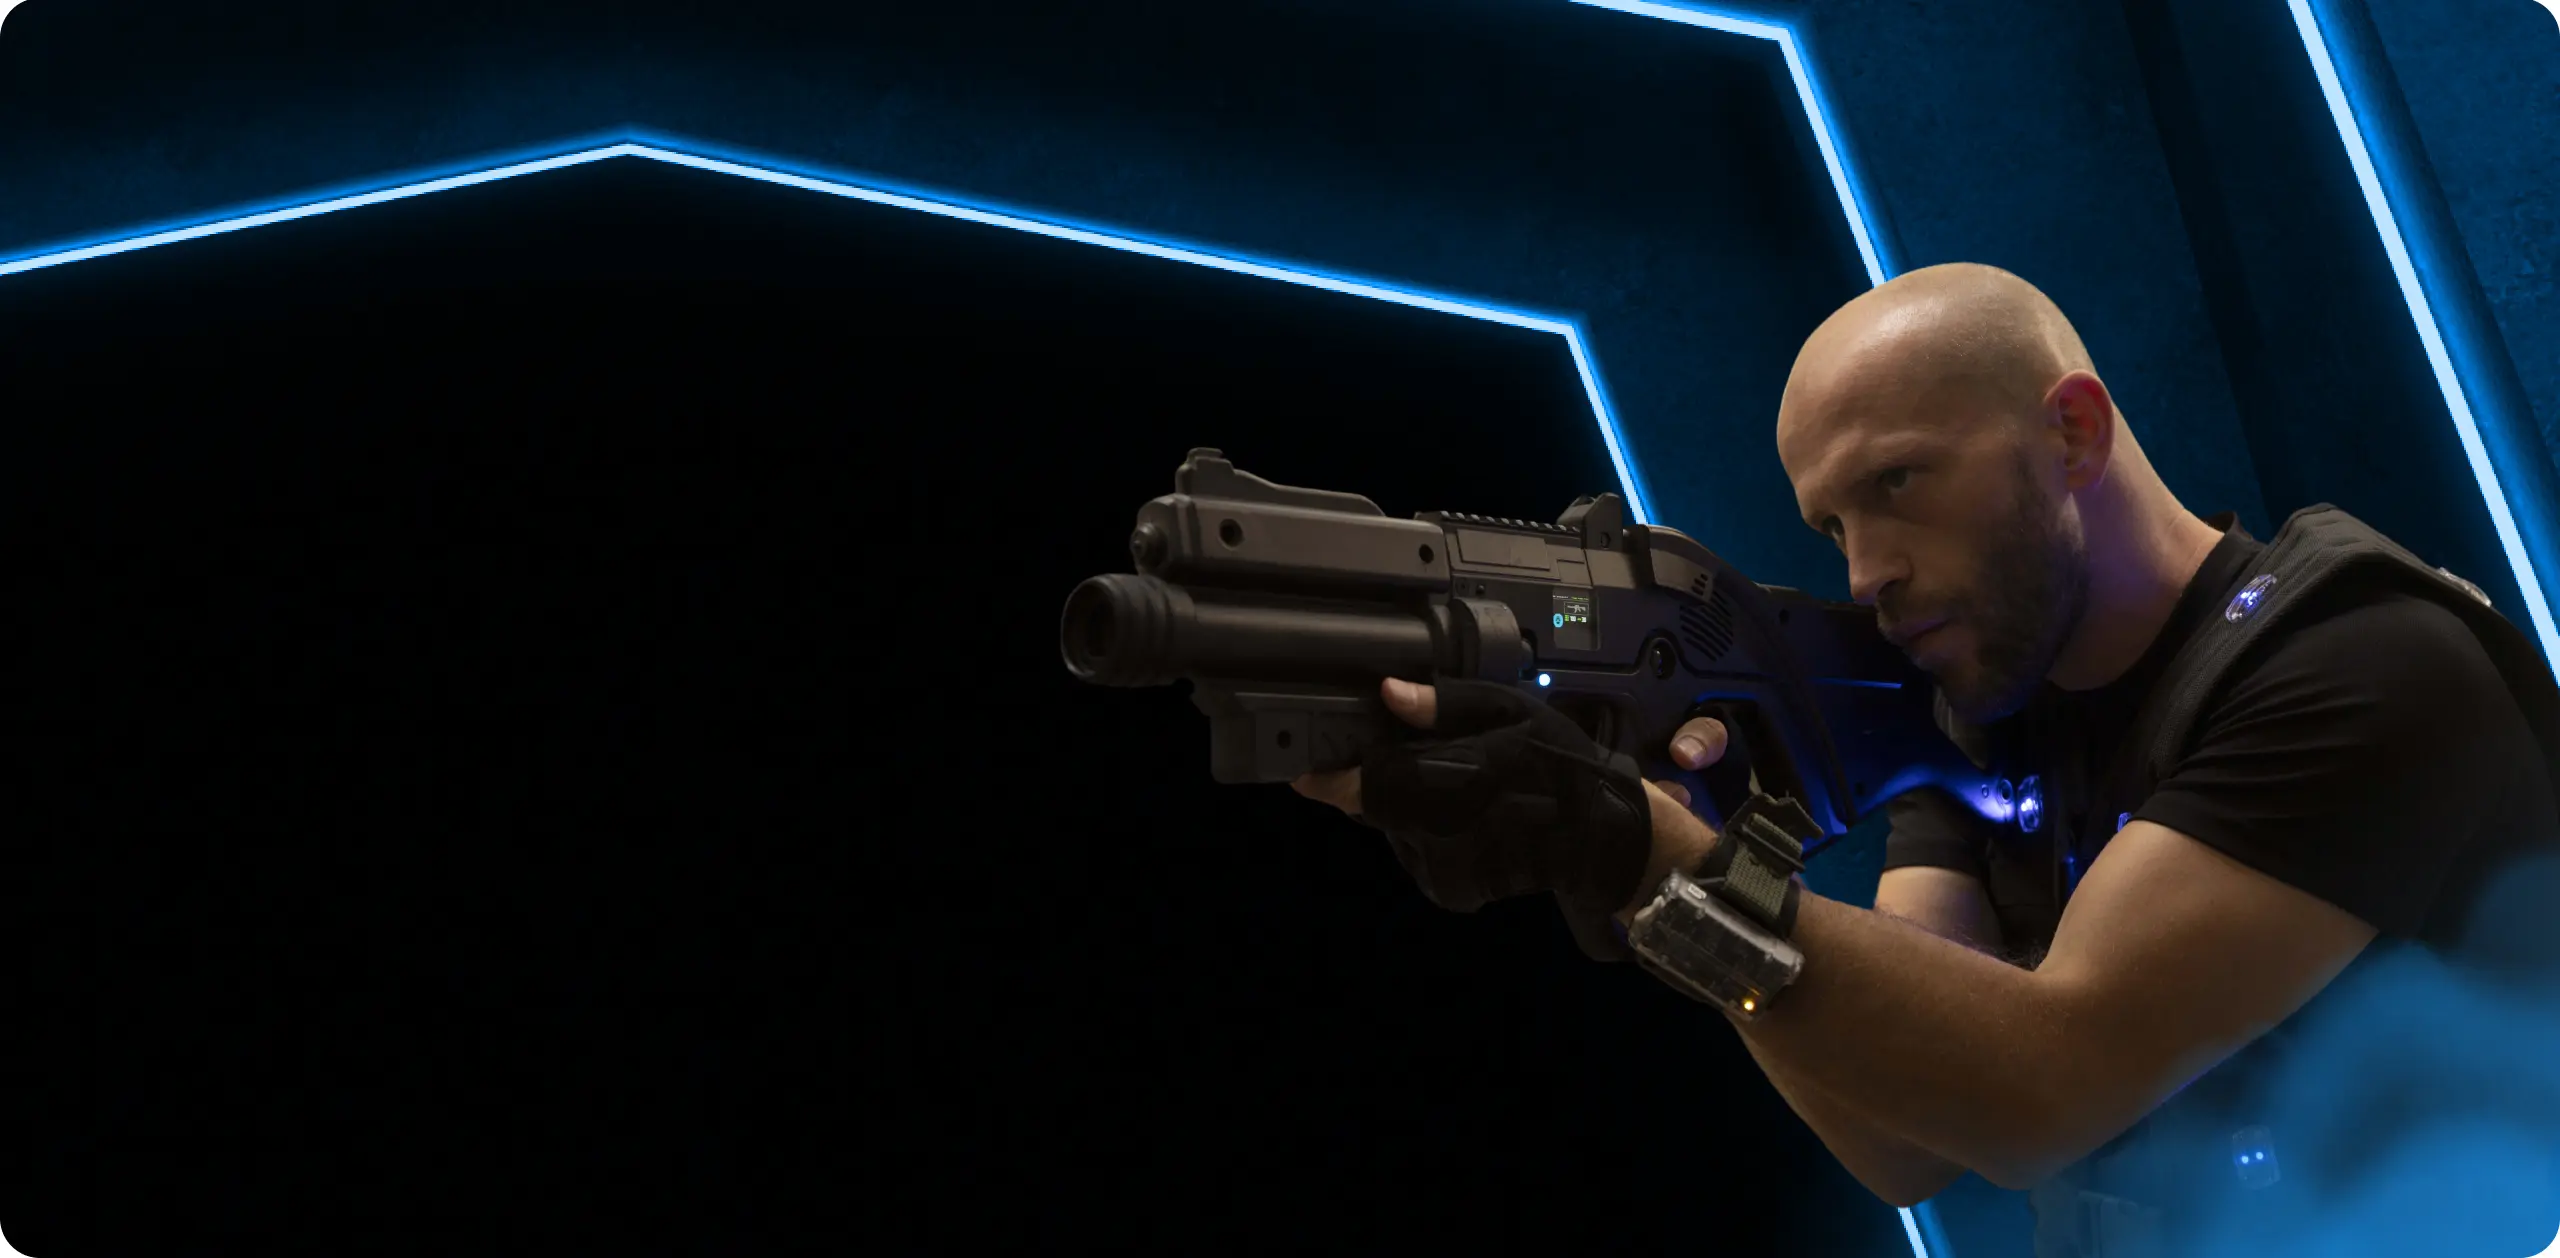
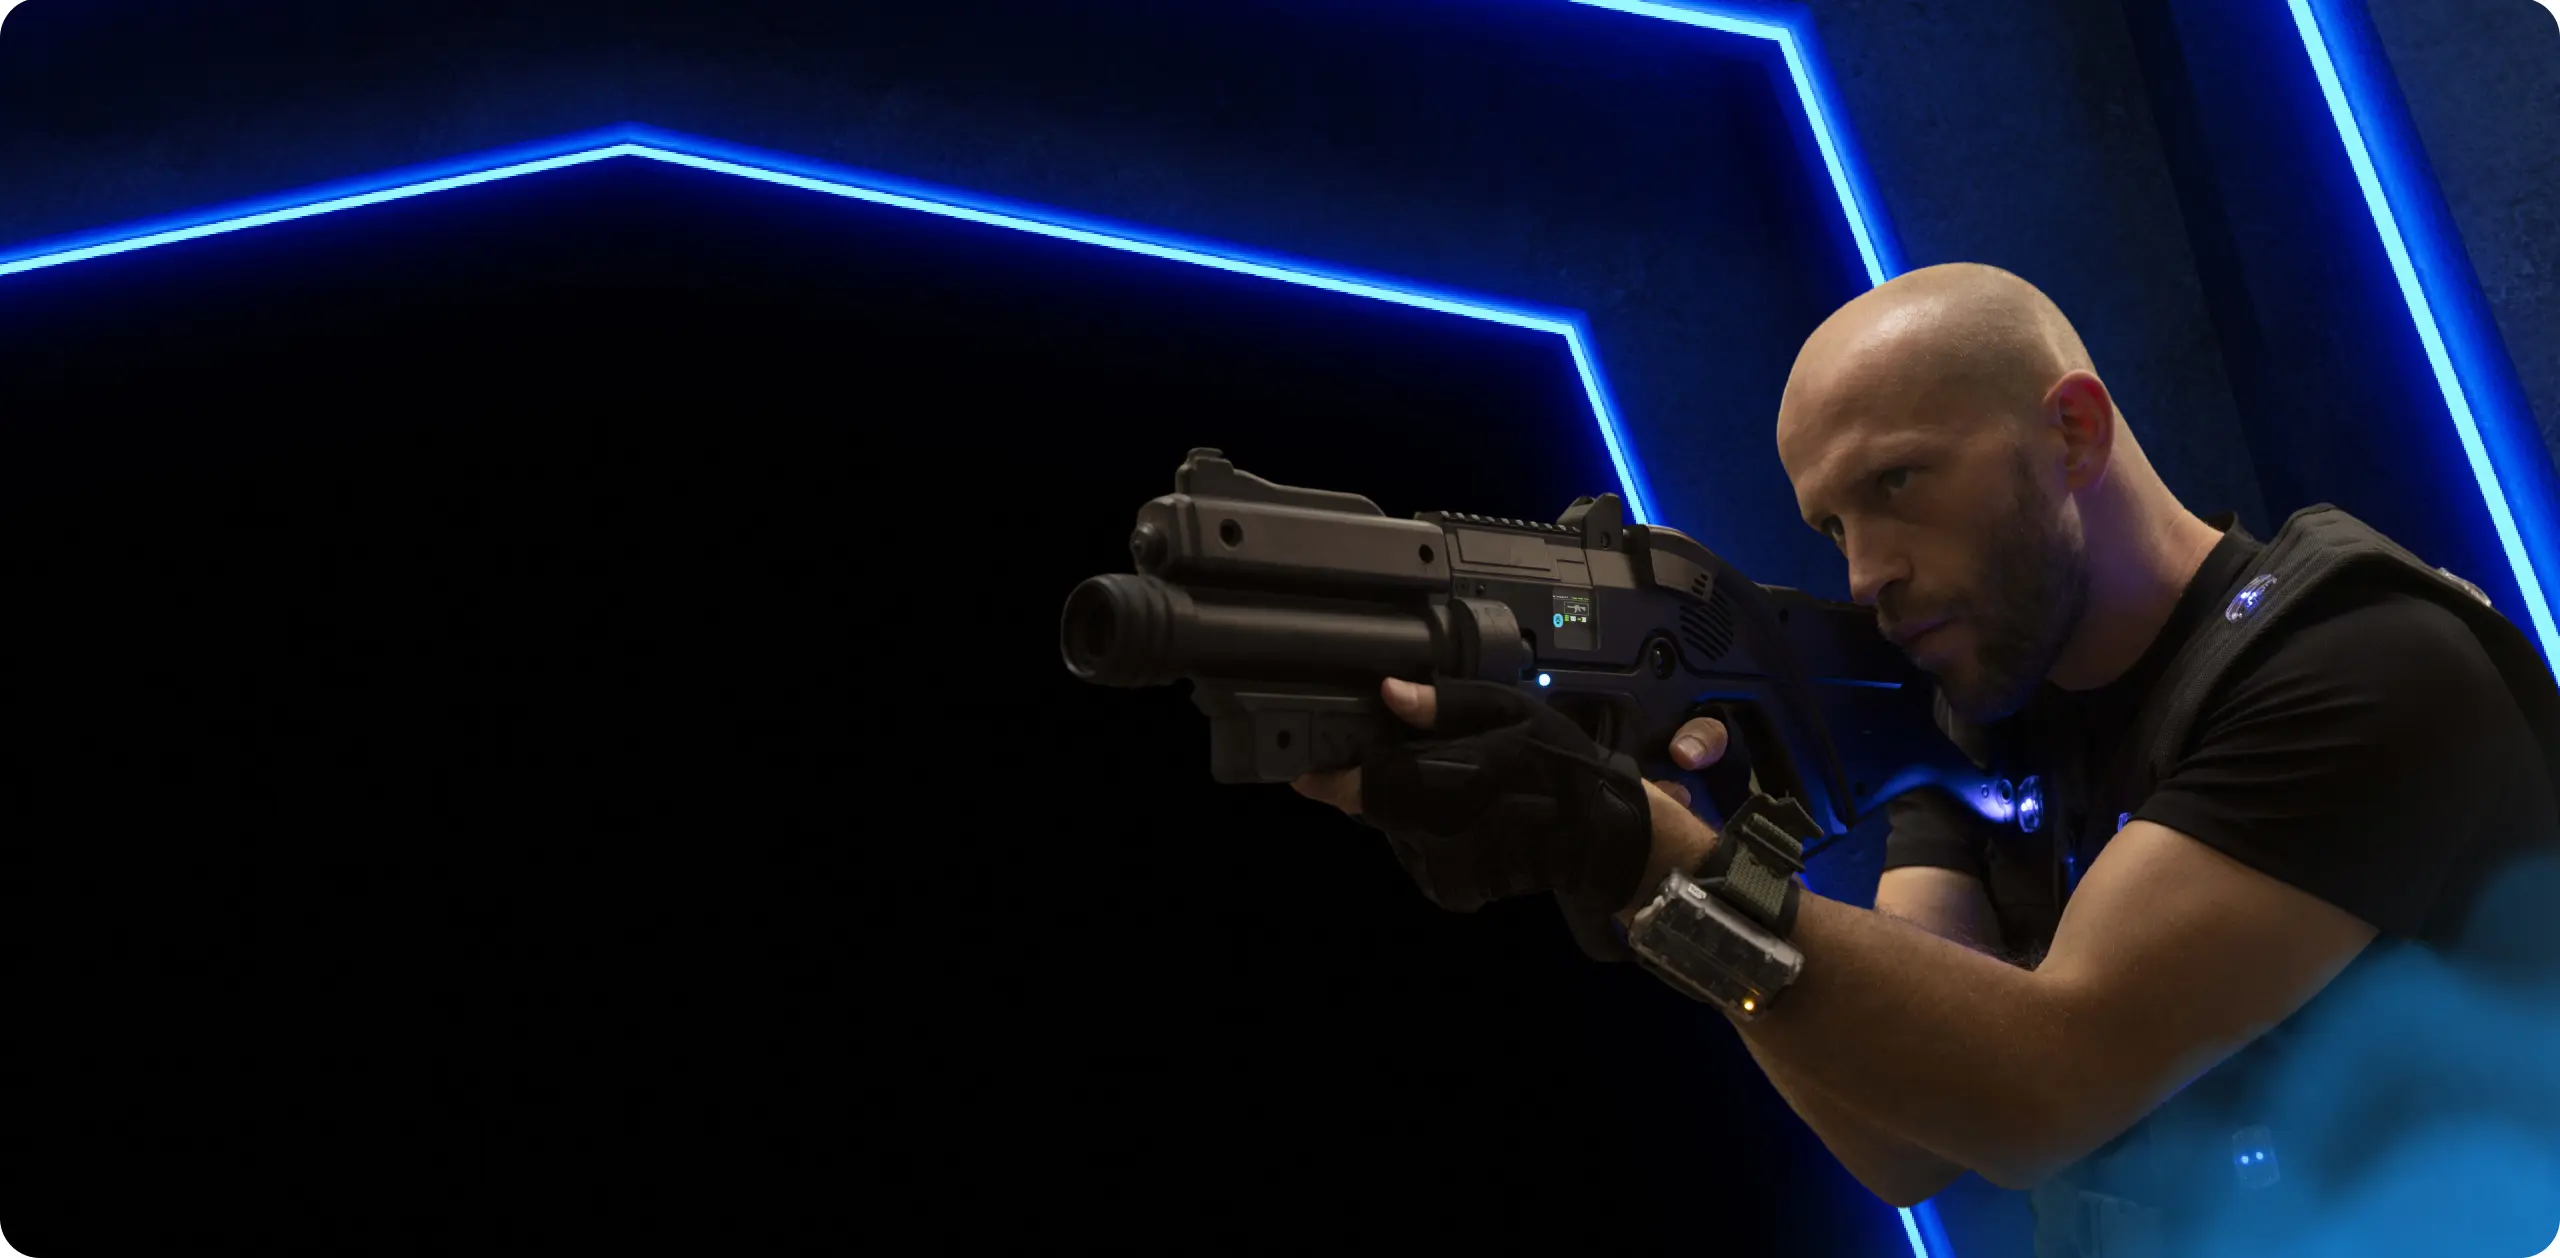
change quality images

diff --git a/src/components/MainAchievementsSection/MainAchievementsSection.tsx b/src/components/MainAchievementsSection/MainAchievementsSection.tsx
@@ -55,7 +55,7 @@ const MainAchievementsSection = () => {
                   src={imgOne}
                   alt="Main achievements img 1"
                   fill
-                  sizes="(max-width: 768px) 50vw, (max-width: 1200px) 25vw, 361px"
+                  sizes="100%"
                   className="object-contain"
                 />
               </div>
@@ -66,7 +66,7 @@ const MainAchievementsSection = () => {
                   src={imgTwo}
                   alt="Main achievements img 2"
                   fill
-                  sizes="(max-width: 768px) 50vw, (max-width: 1200px) 25vw, 361px"
+                  sizes="100%"
                   className="object-contain"
                 />
               </div>
@@ -77,7 +77,7 @@ const MainAchievementsSection = () => {
                   src={imgThree}
                   alt="Main achievements img 3"
                   fill
-                  sizes="(max-width: 768px) 50vw, (max-width: 1200px) 25vw, 361px"
+                  sizes="100%"
                   className="object-contain"
                 />
               </div>
@@ -88,7 +88,7 @@ const MainAchievementsSection = () => {
                   src={imgFour}
                   alt="Main achievements img 4"
                   fill
-                  sizes="(max-width: 768px) 50vw, (max-width: 1200px) 25vw, 361px"
+                  sizes="100%"
                   className="object-contain"
                 />
               </div>
@@ -99,57 +99,12 @@ const MainAchievementsSection = () => {
                   src={imgFive}
                   alt="Main achievements img 5"
                   fill
-                  sizes="(max-width: 768px) 50vw, (max-width: 1200px) 25vw, 361px"
+                  sizes="100%"
                   className="object-contain"
                 />
               </div>
             </li>
           ))}
-          {/* <div className="absolute top-[-7%] right-[-11%] w-[224px] h-[224px] sm:w-[203px] sm:h-[182px] sm:top-[-19%] sm:left-[91%] lg:w-[233px] lg:h-[233px] lg:top-[-40%] lg:left-[140%] xl:w-[292px] xl:h-[261px] xl:top-[-38%] xl:left-[158%]">
-            <Image
-              src={imgOne}
-              alt="Main achievements img 1"
-              fill
-              sizes="(max-width: 768px) 50vw, (max-width: 1200px) 25vw, 361px"
-              className="object-contain"
-            />
-          </div>
-          <div className="hidden sm:block absolute top-[4%] left-[72%] w-[178px] h-[178px] sm:w-[198px] sm:h-[177px] sm:top-[-47%] sm:left-[68%] lg:w-[237px] lg:h-[237px] lg:top-[-14%] lg:left-[109%] xl:w-[350px] xl:h-[312px] xl:left-[104%]">
-            <Image
-              src={imgTwo}
-              alt="Main achievements img 2"
-              fill
-              sizes="(max-width: 768px) 50vw, (max-width: 1200px) 25vw, 361px"
-              className="object-contain"
-            />
-          </div>
-          <div className="absolute top-[45%] right-[-12%] sm:top-[48%] sm:left-[97%] w-[213px] h-[190px] lg:w-[272px] lg:h-[243px] lg:top-[21%] lg:left-[135%] xl:w-[360px] xl:h-[322px] xl:top-[15%] xl:left-[156%]">
-            <Image
-              src={imgThree}
-              alt="Main achievements img 3"
-              fill
-              sizes="(max-width: 768px) 50vw, (max-width: 1200px) 25vw, 361px"
-              className="object-contain"
-            />
-          </div>
-          <div className="absolute bottom-[68%] right-[3%] w-[135px] h-[121px] sm:w-[143px] sm:h-[129px] sm:bottom-[61%] sm:left-[101%] lg:w-[225px] lg:h-[202px] lg:bottom-[14%] lg:left-[105%] xl:left-[120%]">
-            <Image
-              src={imgFour}
-              alt="Main achievements img 4"
-              fill
-              sizes="(max-width: 768px) 50vw, (max-width: 1200px) 25vw, 361px"
-              className="object-contain"
-            />
-          </div>
-          <div className="absolute bottom-[13%] right-[-6%] w-[221px] h-[198px] sm:hidden lg:block lg:w-[220px] lg:h-[198px] lg:left-[133%] lg:bottom-[-14%] xl:w-[346px] xl:h-[310px] xl:bottom-[-27%] xl:left-[149%]">
-            <Image
-              src={imgFive}
-              alt="Main achievements img 5"
-              fill
-              sizes="(max-width: 768px) 50vw, (max-width: 1200px) 25vw, 361px"
-              className="object-contain"
-            />
-          </div> */}
         </ul>
       </section>
       <section className="pt-[34px] sm:pb-[50px] lg:pb-0">
@@ -165,6 +120,7 @@ const MainAchievementsSection = () => {
                   alt="Main achievements img"
                   loading="lazy"
                   fill
+                  sizes="100%"
                   className={`object-contain sm:object-cover rounded-[20px] ${style.achievements_img}`}
                 />
               </li>

diff --git a/src/components/OurEquipmentSection/OurEquipmentSection.tsx b/src/components/OurEquipmentSection/OurEquipmentSection.tsx
@@ -57,7 +57,7 @@ const OurEquipmentSection = () => {
                           src={item.img}
                           alt="Product img"
                           fill
-                          sizes="(max-width: 768px) 50vw, (max-width: 1200px) 25vw, 361px"
+                          sizes="100%"
                           className="object-cover object-center rounded-2xl"
                           loading="lazy"
                         />
@@ -114,7 +114,7 @@ const OurEquipmentSection = () => {
                           src={item.img}
                           alt="Product img"
                           fill
-                          sizes="(max-width: 768px) 50vw, (max-width: 1200px) 25vw, 361px"
+                          sizes="100%"
                           className="object-cover object-center rounded-2xl"
                         />
                       </div>
@@ -203,7 +203,7 @@ const OurEquipmentSection = () => {
                           src={item.img}
                           alt="Slider img"
                           fill
-                          sizes="(max-width: 768px) 50vw, (max-width: 1200px) 25vw, 361px"
+                          sizes="100%"
                           className="object-cover object-center rounded-2xl"
                         />
                       </div>

diff --git a/src/components/WelcomeSection/WelcomeSection.tsx b/src/components/WelcomeSection/WelcomeSection.tsx
@@ -38,7 +38,7 @@ const WelcomeSection = () => {
                 src={imgOne}
                 alt="img-one"
                 fill
-                sizes="(max-width: 768px) 50vw, (max-width: 1200px) 25vw, 361px"
+                sizes="100%"
                 className="object-contain"
               />
             </div>
@@ -47,7 +47,7 @@ const WelcomeSection = () => {
                 src={imgTwo}
                 alt="img-two"
                 fill
-                sizes="(max-width: 768px) 50vw, (max-width: 1200px) 25vw, 361px"
+                sizes="100%"
                 className="object-contain"
               />
             </div>
@@ -56,7 +56,7 @@ const WelcomeSection = () => {
                 src={imgThree}
                 alt="img-three"
                 fill
-                sizes="(max-width: 768px) 50vw, (max-width: 1200px) 25vw, 361px"
+                sizes="100%"
                 className="object-contain"
               />
             </div>
@@ -65,7 +65,7 @@ const WelcomeSection = () => {
                 src={imgFour}
                 alt="img-four"
                 fill
-                sizes="(max-width: 768px) 50vw, (max-width: 1200px) 25vw, 361px"
+                sizes="100%"
                 className="object-contain"
               />
             </div>

diff --git a/src/components/FalconVersionsSection/FalconVersionsSection.tsx b/src/components/FalconVersionsSection/FalconVersionsSection.tsx
@@ -37,7 +37,7 @@ const FalconVersionsSection = () => {
                 src={imgOne}
                 alt="FALCON F1"
                 fill
-                sizes="(max-width: 768px) 50vw, (max-width: 1200px) 25vw, 361px"
+                sizes="100%"
                 className="object-contain"
               />
             </div>
@@ -65,7 +65,7 @@ const FalconVersionsSection = () => {
                 src={imgTwo}
                 alt="FALCON F2"
                 fill
-                sizes="(max-width: 768px) 50vw, (max-width: 1200px) 25vw, 361px"
+                sizes="100%"
                 className="object-contain"
               />
             </div>
@@ -91,7 +91,7 @@ const FalconVersionsSection = () => {
                 src={imgThree}
                 alt="FALCON LUX"
                 fill
-                sizes="(max-width: 768px) 50vw, (max-width: 1200px) 25vw, 361px"
+                sizes="100%"
                 className="object-contain"
               />
             </div>
